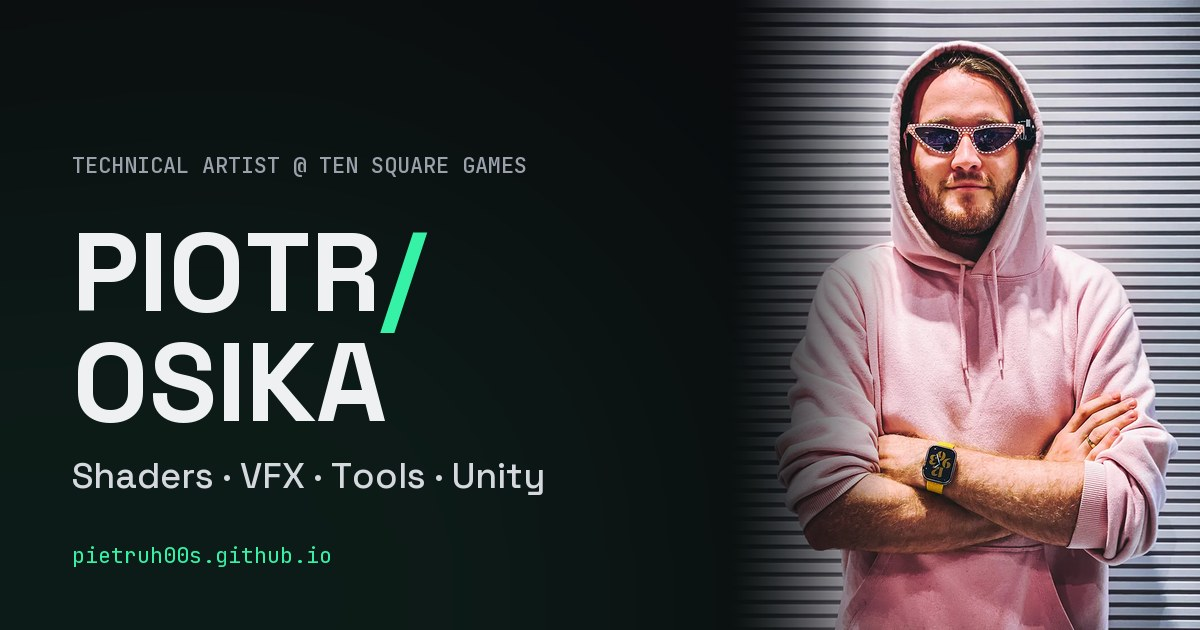
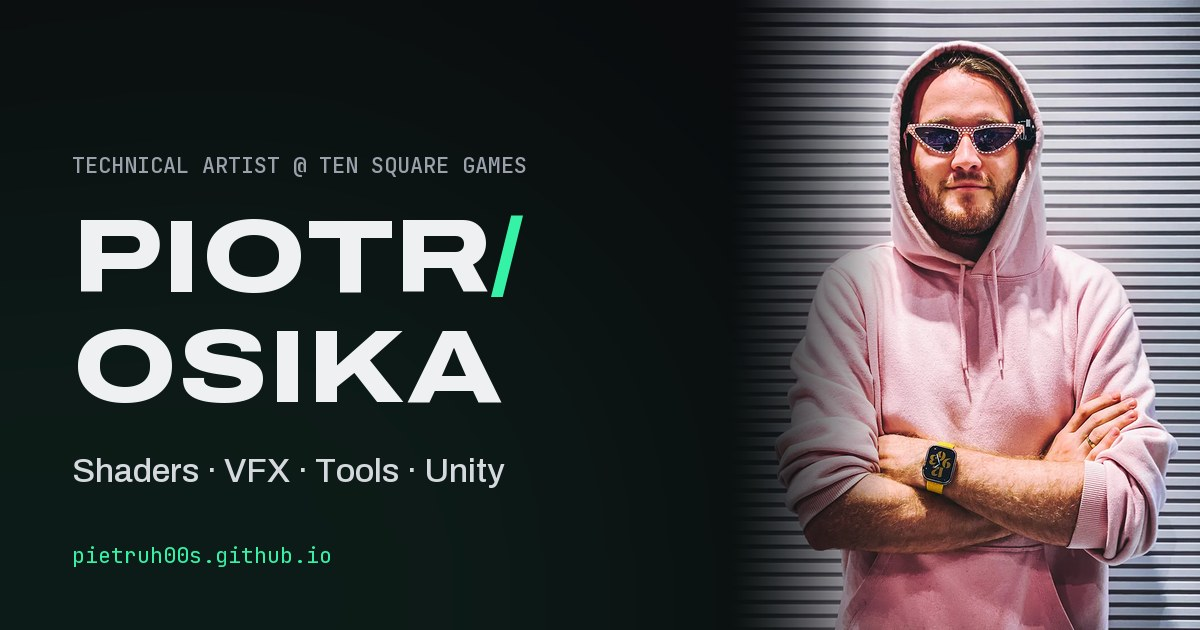
Typography: Archivo (expanded display width) replaces Space Grotesk; retuned display sizes; preview image re-rendered

Changed region(s): [[0.0617, 0.3317, 0.4317, 0.6937], [0.0617, 0.7238, 0.4625, 0.7841]]

diff --git a/assets/css/style.css b/assets/css/style.css
@@ -16,7 +16,8 @@
   --radius-sm: 10px;
   --wrap: 1280px;
   --gutter: clamp(16px, 4vw, 40px);
-  --font: "Space Grotesk", system-ui, -apple-system, "Segoe UI", sans-serif;
+  --font: "Archivo", system-ui, -apple-system, "Segoe UI", sans-serif;
+  --display-stretch: 125%; /* Archivo Expanded for display type */
   --mono: "JetBrains Mono", ui-monospace, "Cascadia Code", Consolas, monospace;
   --ease: cubic-bezier(.2, .7, .2, 1);
 }
@@ -68,7 +69,9 @@ body.locked { overflow: hidden; }
   background: #0d0f12b3; border: 1px solid var(--line);
   backdrop-filter: blur(14px) saturate(140%); -webkit-backdrop-filter: blur(14px) saturate(140%);
 }
-.nav__logo { font-weight: 700; letter-spacing: .02em; font-size: 16px; }
+/* display type uses Archivo's expanded width; body stays at normal width */
+.nav__logo, .hero__title, .hero__facts dd, .section h2, .card__title, .tile__title, .case__head h1, .case h2, .case__foot p, .contact__email, .breakdown figcaption b { font-stretch: var(--display-stretch); }
+.nav__logo { font-weight: 800; letter-spacing: .01em; font-size: 16px; }
 .nav__logo span { color: var(--accent); }
 .nav__links { display: flex; align-items: center; gap: 4px; }
 .nav__links a { padding: 8px 14px; border-radius: 999px; font-size: 14px; color: var(--muted); transition: color .2s, background .2s; }
@@ -91,7 +94,7 @@ body.locked { overflow: hidden; }
 .hero__inner { display: grid; grid-template-columns: 1.2fr 1fr; gap: clamp(24px, 4vw, 56px); align-items: stretch; }
 .hero__status { display: inline-flex; align-items: center; gap: 10px; color: var(--muted); margin: 32px 0 0; }
 .dot { width: 8px; height: 8px; border-radius: 50%; background: var(--accent); box-shadow: 0 0 0 4px #35f2a724; }
-.hero__title { margin: 0; font-weight: 700; font-size: clamp(48px, 7.2vw, 96px); line-height: .92; letter-spacing: -.04em; text-transform: uppercase; }
+.hero__title { margin: 0; font-weight: 800; font-size: clamp(40px, 6vw, 84px); line-height: .95; letter-spacing: -.02em; text-transform: uppercase; }
 .hero__line { display: block; }
 .hero__line--accent { color: var(--accent); }
 .caret { display: inline-block; width: .09em; height: .78em; margin-left: .06em; background: var(--accent); vertical-align: baseline; animation: blink 1.1s steps(1) infinite; }
@@ -112,7 +115,7 @@ body.locked { overflow: hidden; }
 .hero__facts { display: grid; grid-template-columns: repeat(4, 1fr); gap: 1px; margin-top: clamp(40px, 7vh, 80px); }
 .hero__facts > div { padding: 18px 20px 4px 0; border-top: 1px solid var(--line-2); }
 .hero__facts dt { color: var(--dim); font-size: 11px; }
-.hero__facts dd { margin: 6px 0 0; font-size: clamp(22px, 2.4vw, 32px); font-weight: 600; letter-spacing: -.02em; }
+.hero__facts dd { margin: 6px 0 0; font-size: clamp(20px, 2.2vw, 30px); font-weight: 700; letter-spacing: -.01em; }
 .hero__facts small { display: block; font-size: 13px; font-weight: 400; color: var(--muted); letter-spacing: 0; }
 
 /* ---------- sections ---------- */
@@ -120,7 +123,7 @@ body.locked { overflow: hidden; }
 .section--tight { padding-top: clamp(64px, 9vw, 120px); }
 .section__head { display: grid; grid-template-columns: 1fr; gap: 10px; margin-bottom: clamp(28px, 4vw, 48px); max-width: 860px; }
 .h-idx { display: inline-block; vertical-align: top; margin: .28em .6em 0 0; font-family: var(--mono); font-size: .26em; font-weight: 500; line-height: 1; letter-spacing: .02em; color: var(--warm); }
-.section h2 { margin: 0; font-size: clamp(36px, 5.4vw, 72px); line-height: 1; letter-spacing: -.035em; font-weight: 700; }
+.section h2 { margin: 0; font-size: clamp(30px, 4.4vw, 60px); line-height: 1.02; letter-spacing: -.02em; font-weight: 800; text-wrap: balance; }
 .section__sub { margin: 8px 0 0; color: var(--muted); max-width: 56ch; }
 
 /* ---------- bento (featured) ---------- */
@@ -142,7 +145,7 @@ body.locked { overflow: hidden; }
 /* body grows so cards in one row share a height; content sticks to the top so titles line up */
 .card__body { flex: 1; padding: clamp(16px, 2vw, 24px); display: grid; gap: 8px; align-content: start; border-top: 1px solid var(--line); }
 .card__meta { margin: 0 0 6px; color: var(--dim); }
-.card__title { margin: 0; font-size: clamp(22px, 2.3vw, 32px); line-height: 1.05; letter-spacing: -.025em; font-weight: 700; }
+.card__title { margin: 0; font-size: clamp(20px, 2vw, 28px); line-height: 1.08; letter-spacing: -.015em; font-weight: 700; }
 .card__role { margin: 0; color: var(--muted); font-size: 15px; line-height: 1.45; max-width: 52ch; display: -webkit-box; -webkit-line-clamp: 2; -webkit-box-orient: vertical; overflow: hidden; }
 .card__go {
   position: absolute; top: 16px; right: 16px; width: 46px; height: 46px; border-radius: 50%;
@@ -165,7 +168,7 @@ body.locked { overflow: hidden; }
 .tile { display: grid; gap: 12px; border-radius: var(--radius); padding: 10px 10px 16px; background: var(--bg-2); border: 1px solid var(--line); transition: border-color .3s, transform .4s var(--ease); }
 .tile__media { aspect-ratio: 4 / 3; border-radius: 12px; overflow: hidden; background: var(--surface); }
 .tile__media img { width: 100%; height: 100%; object-fit: cover; transition: transform .8s var(--ease); }
-.tile__title { margin: 0 6px; font-size: 18px; line-height: 1.2; font-weight: 600; letter-spacing: -.01em; }
+.tile__title { margin: 0 6px; font-size: 16px; line-height: 1.25; font-weight: 700; letter-spacing: 0; }
 .tile__meta { margin: 0 6px; color: var(--dim); font-size: 11px; }
 .tile:hover, .tile:focus-visible { border-color: var(--line-2); transform: translateY(-3px); }
 .tile:hover img, .tile:focus-visible img { transform: scale(1.05); }
@@ -200,10 +203,10 @@ body.locked { overflow: hidden; }
 
 /* ---------- contact ---------- */
 .contact { padding-bottom: clamp(60px, 8vw, 100px); }
-.section h2.contact__title { margin: 0; font-size: clamp(40px, 7vw, 96px); }
+.section h2.contact__title { margin: 0; font-size: clamp(34px, 5.6vw, 76px); }
 .contact__title span { color: var(--muted); }
 .contact__mail { display: flex; flex-wrap: wrap; align-items: center; gap: 14px 20px; margin-top: 44px; }
-.contact__email { font-size: clamp(22px, 3.6vw, 48px); font-weight: 600; letter-spacing: -.02em; border-bottom: 2px solid var(--accent); line-height: 1.15; overflow-wrap: anywhere; }
+.contact__email { font-size: clamp(20px, 3vw, 40px); font-weight: 700; letter-spacing: -.01em; border-bottom: 2px solid var(--accent); line-height: 1.15; overflow-wrap: anywhere; }
 .contact__email:hover { color: var(--accent); }
 .socials { list-style: none; display: flex; flex-wrap: wrap; gap: 10px; margin: 36px 0 0; padding: 0; }
 .socials a { display: inline-flex; align-items: center; gap: 6px; padding: 10px 16px; border-radius: 999px; border: 1px solid var(--line-2); font-size: 15px; transition: background .2s, color .2s; }
@@ -228,14 +231,14 @@ body.locked { overflow: hidden; }
 .case__hero img { width: 100%; height: 100%; object-fit: cover; }
 .case__hero::after { content: ""; position: absolute; inset: 0; background: linear-gradient(180deg, transparent 40%, var(--bg)); }
 .case__head { position: relative; margin-top: clamp(-140px, -10vw, -40px); z-index: 1; }
-.case__head h1 { margin: 10px 0 0; font-size: clamp(40px, 7vw, 96px); line-height: .95; letter-spacing: -.04em; }
+.case__head h1 { margin: 0; font-size: clamp(32px, 5.6vw, 76px); line-height: 1; letter-spacing: -.02em; font-weight: 800; text-wrap: balance; }
 .case__role { color: var(--accent); margin: 16px 0 0; }
 .case__cols { display: grid; grid-template-columns: 7fr 4fr; gap: clamp(24px, 5vw, 72px); margin-top: 40px; }
 .case__summary { font-size: clamp(18px, 1.7vw, 21px); line-height: 1.55; color: #dadde1; margin-top: 0; }
 .case__info { display: grid; gap: 18px; align-content: start; padding: 22px; border-radius: var(--radius); background: var(--bg-2); border: 1px solid var(--line); }
 .case__info dt { color: var(--dim); font-size: 11px; }
 .case__info dd { margin: 4px 0 0; }
-.case h2 { font-size: clamp(24px, 2.6vw, 34px); letter-spacing: -.02em; margin: 56px 0 18px; }
+.case h2 { font-size: clamp(22px, 2.3vw, 30px); letter-spacing: -.01em; font-weight: 800; margin: 56px 0 18px; }
 .case__list { margin: 0; padding: 0; list-style: none; display: grid; gap: 12px; counter-reset: li; }
 .case__list li { position: relative; padding: 16px 18px 16px 58px; border-radius: 14px; background: var(--bg-2); border: 1px solid var(--line); color: #d0d4d9; counter-increment: li; }
 .case__list li::before { content: counter(li, decimal-leading-zero); position: absolute; left: 18px; top: 17px; font: 500 12px var(--mono); color: var(--warm); }
@@ -275,7 +278,7 @@ body.locked { overflow: hidden; }
 .compare input { position: absolute; inset: 0; width: 100%; height: 100%; margin: 0; opacity: 0; cursor: ew-resize; }
 .compare:has(input:focus-visible) { outline: 2px solid var(--accent); outline-offset: 3px; }
 .case__foot { display: flex; flex-wrap: wrap; justify-content: space-between; align-items: center; gap: 16px; margin: 72px 0 0; padding: 32px 0 56px; border-top: 1px solid var(--line); }
-.case__foot p { margin: 0; font-size: clamp(20px, 2.2vw, 28px); font-weight: 600; letter-spacing: -.02em; }
+.case__foot p { margin: 0; font-size: clamp(18px, 2vw, 24px); font-weight: 700; letter-spacing: -.01em; }
 
 /* ---------- lightbox ---------- */
 .lightbox { position: fixed; inset: 0; z-index: 1000; display: grid; place-items: center; background: #050607f2; padding: 56px 64px; }

diff --git a/index.html b/index.html
@@ -20,8 +20,8 @@
   <link rel="icon" href="assets/favicon.svg" type="image/svg+xml">
   <link rel="preconnect" href="https://fonts.googleapis.com">
   <link rel="preconnect" href="https://fonts.gstatic.com" crossorigin>
-  <link href="https://fonts.googleapis.com/css2?family=JetBrains+Mono:wght@400;500&family=Space+Grotesk:wght@400;500;600;700&display=swap" rel="stylesheet">
-  <link rel="stylesheet" href="assets/css/style.css?v=20261028b">
+  <link href="https://fonts.googleapis.com/css2?family=Archivo:wdth,wght@100..125,400..800&family=JetBrains+Mono:wght@400;500&display=swap" rel="stylesheet">
+  <link rel="stylesheet" href="assets/css/style.css?v=20261028c">
 </head>
 <body>
   <svg width="0" height="0" style="position:absolute" aria-hidden="true" focusable="false">
@@ -242,7 +242,7 @@
     <p class="lightbox__count mono"></p>
   </div>
 
-  <script src="assets/js/data.js?v=20261028b"></script>
-  <script src="assets/js/main.js?v=20261028b" type="module"></script>
+  <script src="assets/js/data.js?v=20261028c"></script>
+  <script src="assets/js/main.js?v=20261028c" type="module"></script>
 </body>
 </html>

diff --git a/tools/make_og.py b/tools/make_og.py
@@ -8,9 +8,9 @@ W, H = 1200, 630
 BG, TEXT, MUTED, ACCENT = (10, 11, 13), (238, 240, 242), (154, 161, 171), (53, 242, 167)
 
 
-def font(name, size, weight):
+def font(name, size, weight, width=None):
     f = ImageFont.truetype(str(CACHE / name), size)
-    f.set_variation_by_axes([weight])
+    f.set_variation_by_axes([weight] if width is None else [weight, width])  # Archivo axes: weight, width
     return f
 
 
@@ -39,12 +39,12 @@ def main():
     d = ImageDraw.Draw(img)
     x = 72
     d.text((x, 150), "TECHNICAL ARTIST @ TEN SQUARE GAMES", font=font("JetBrainsMono.ttf", 22, 500), fill=MUTED)
-    big = font("SpaceGrotesk.ttf", 112, 700)
+    big = font("Archivo.ttf", 104, 800, 125)
     d.text((x, 200), "PIOTR", font=big, fill=TEXT)
     w = d.textlength("PIOTR", font=big)
     d.text((x + w, 200), "/", font=big, fill=ACCENT)
     d.text((x, 310), "OSIKA", font=big, fill=TEXT)
-    d.text((x, 452), "Shaders · VFX · Tools · Unity", font=font("SpaceGrotesk.ttf", 36, 500), fill=(213, 217, 222))
+    d.text((x, 452), "Shaders · VFX · Tools · Unity", font=font("Archivo.ttf", 34, 500, 100), fill=(213, 217, 222))
     d.text((x, 540), "pietruh00s.github.io", font=font("JetBrainsMono.ttf", 22, 400), fill=ACCENT)
 
     img.save(ROOT / "assets" / "og.jpg", "JPEG", quality=88, optimize=True, progressive=True)
